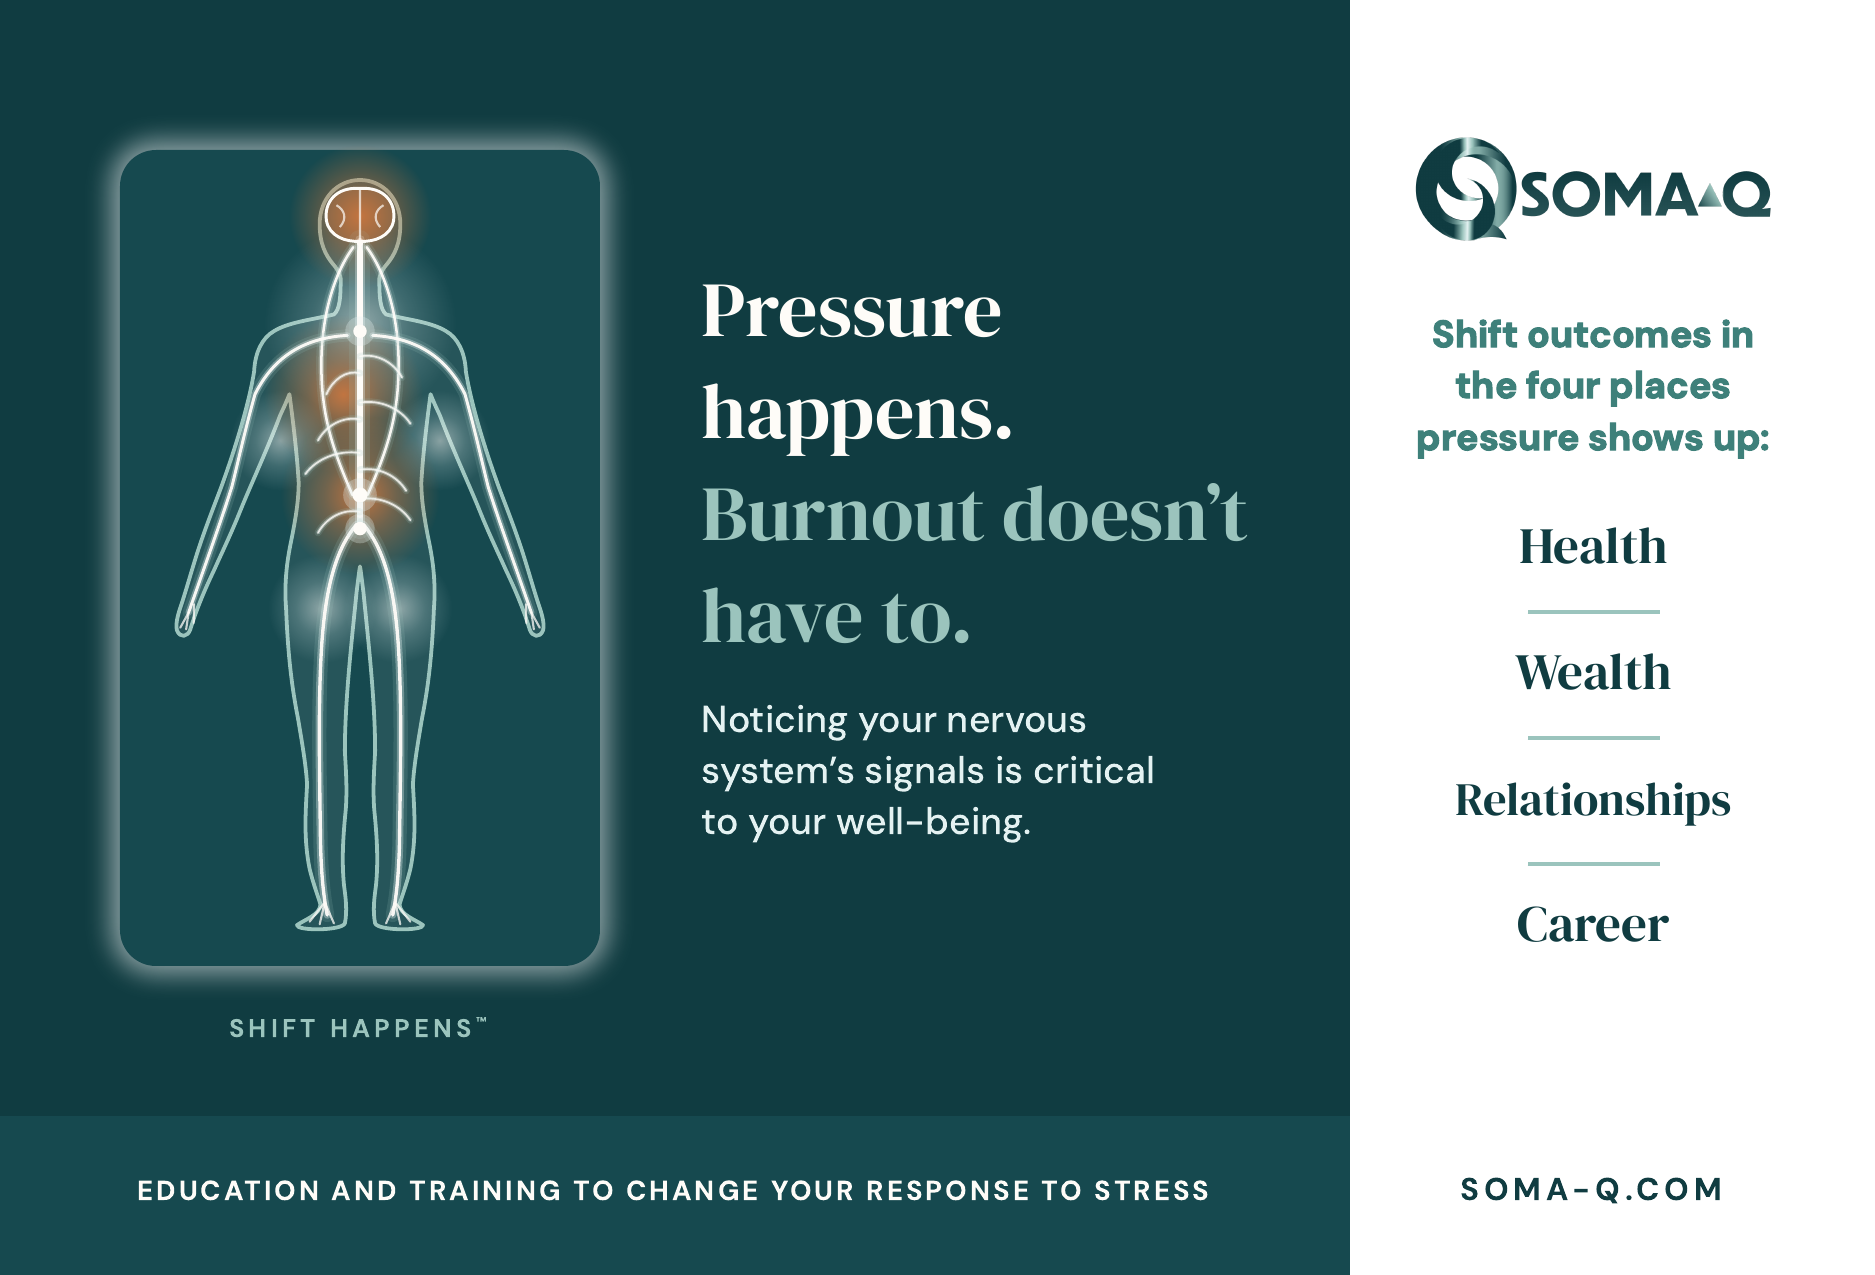
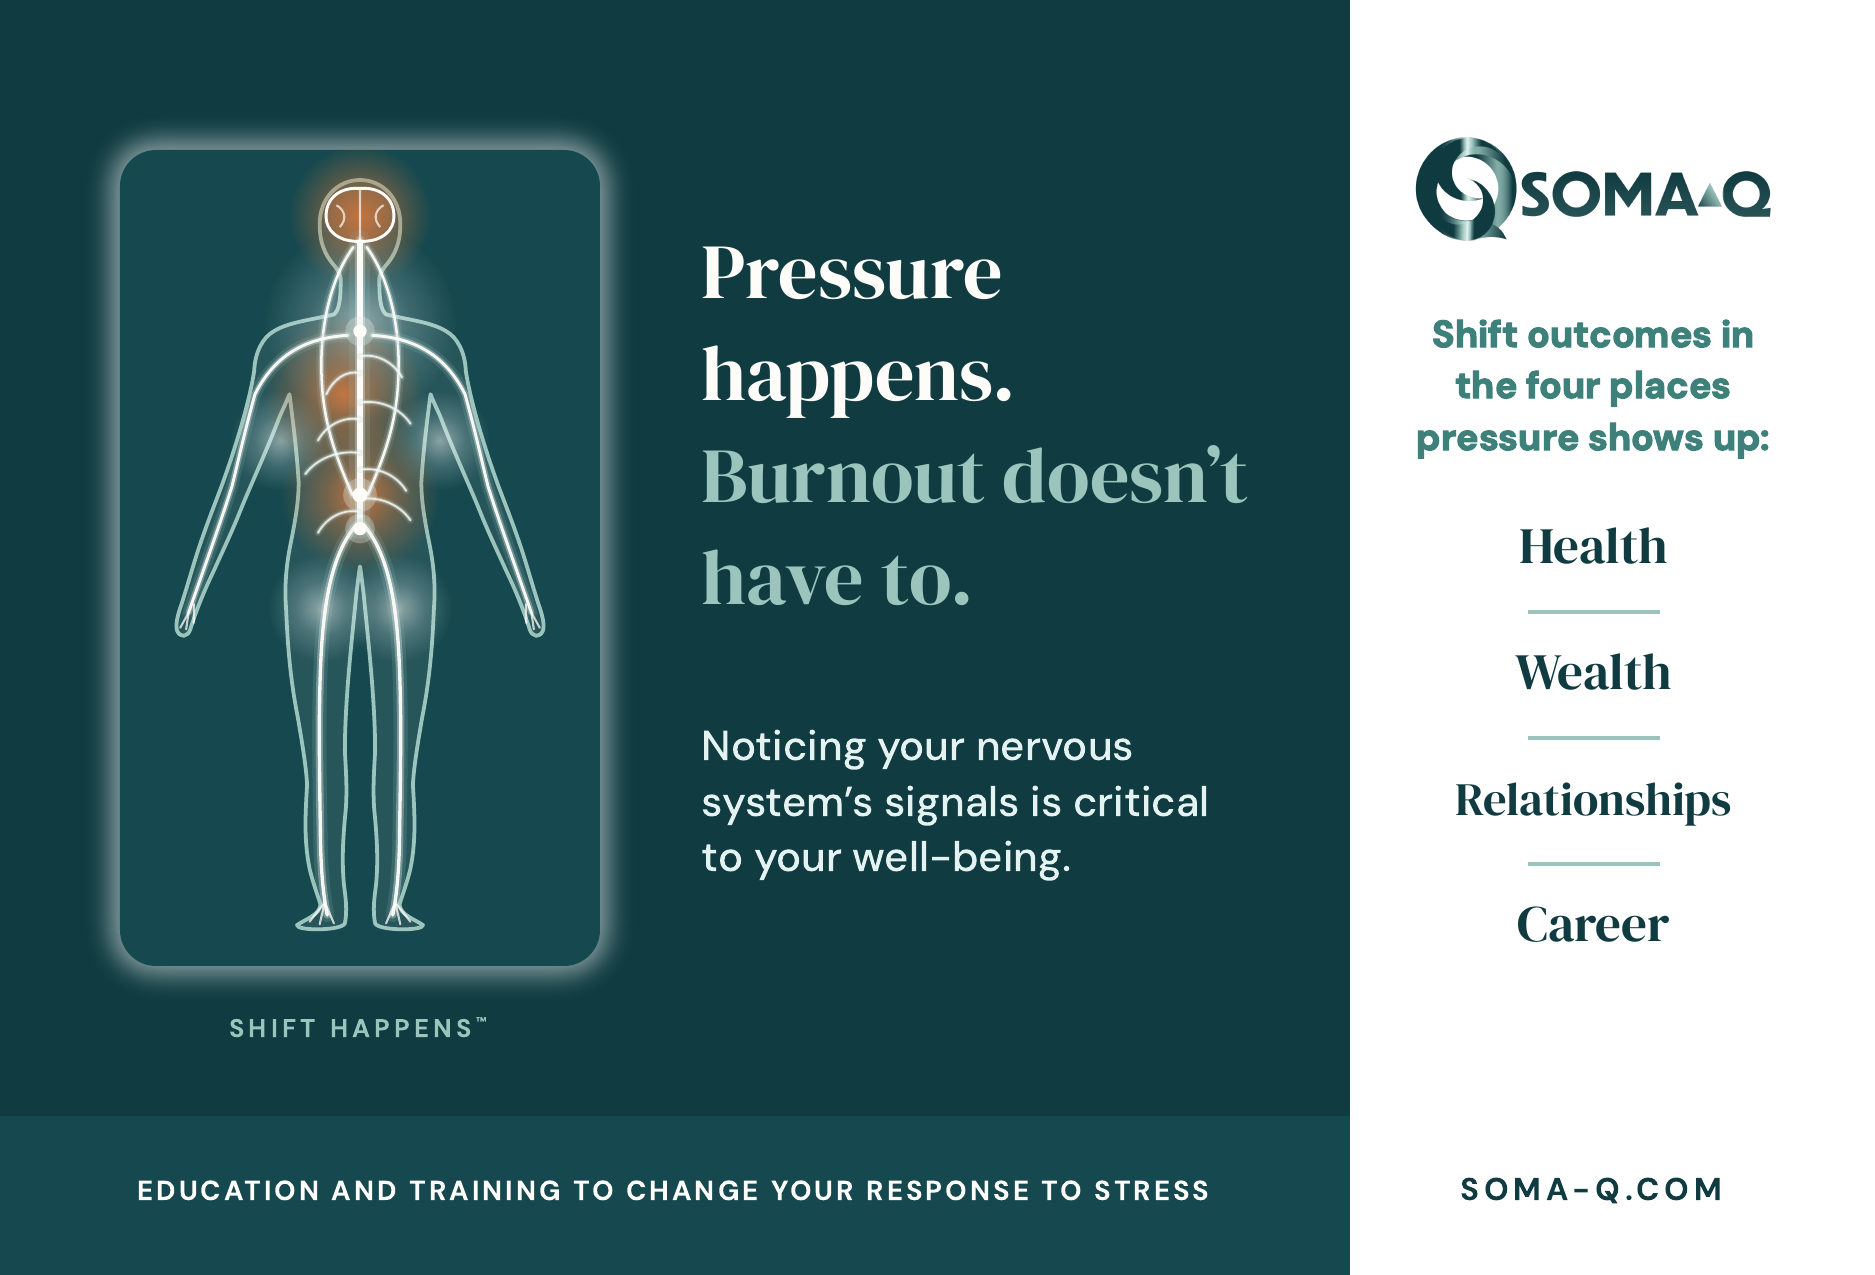
Postcard front L: larger Noticing line, more space after the burnout phrase
Claude-Session: https://claude.ai/code/session_01TFnPPr6NhRE9njhB9L5dUe

Changed region(s): [[0.3712, 0.1835, 0.6805, 0.52], [0.3712, 0.5506, 0.6496, 0.7035]]

diff --git a/booth-package/src/postcard_front_l.html b/booth-package/src/postcard_front_l.html
@@ -15,9 +15,9 @@ svg.page { display: block; width: 6.25in; height: 4.25in; }
 <defs><filter id="pglow" x="-30%" y="-20%" width="160%" height="140%"><feGaussianBlur stdDeviation="4.5"/></filter></defs><rect x="37.5" y="47.5" width="165" height="277" rx="14" fill="#FFFFFF" fill-opacity=".55" filter="url(#pglow)"/>
 <rect x="40" y="50" width="160" height="272" rx="12" fill="#16494F"/>
 <g transform="translate(58.39999999999999,60) scale(0.14)">{{FIGURE:dark}}</g>
-<text x="234" y="112.10000000000001" text-anchor="start" font-family="DM Serif Display" font-weight="400" font-size="26" fill="#FEFCF8">Pressure</text><text x="234" y="146.10000000000002" text-anchor="start" font-family="DM Serif Display" font-weight="400" font-size="26" fill="#FEFCF8">happens.</text>
-<text x="234" y="180.10000000000002" text-anchor="start" font-family="DM Serif Display" font-weight="400" font-size="26" fill="#9BC4BD">Burnout doesn’t</text><text x="234" y="214.10000000000002" text-anchor="start" font-family="DM Serif Display" font-weight="400" font-size="26" fill="#9BC4BD">have to.</text>
-<text x="234" y="244.10000000000002" text-anchor="start" font-family="DM Sans" font-weight="500" font-size="12.5" fill="#E4F2F2">Noticing your nervous</text><text x="234" y="261.1" text-anchor="start" font-family="DM Sans" font-weight="500" font-size="12.5" fill="#E4F2F2">system’s signals is critical</text><text x="234" y="278.1" text-anchor="start" font-family="DM Sans" font-weight="500" font-size="12.5" fill="#E4F2F2">to your well-being.</text>
+<text x="234" y="99.60000000000001" text-anchor="start" font-family="DM Serif Display" font-weight="400" font-size="26" fill="#FEFCF8">Pressure</text><text x="234" y="133.60000000000002" text-anchor="start" font-family="DM Serif Display" font-weight="400" font-size="26" fill="#FEFCF8">happens.</text>
+<text x="234" y="167.60000000000002" text-anchor="start" font-family="DM Serif Display" font-weight="400" font-size="26" fill="#9BC4BD">Burnout doesn’t</text><text x="234" y="201.60000000000002" text-anchor="start" font-family="DM Serif Display" font-weight="400" font-size="26" fill="#9BC4BD">have to.</text>
+<text x="234" y="253.60000000000002" text-anchor="start" font-family="DM Sans" font-weight="500" font-size="14" fill="#E4F2F2">Noticing your nervous</text><text x="234" y="272.1" text-anchor="start" font-family="DM Sans" font-weight="500" font-size="14" fill="#E4F2F2">system’s signals is critical</text><text x="234" y="290.6" text-anchor="start" font-family="DM Sans" font-weight="500" font-size="14" fill="#E4F2F2">to your well-being.</text>
 <image href="{{LOGO_LIGHT_URI}}" x="468.25" y="40" width="126" height="47" preserveAspectRatio="xMinYMid meet"/>
 <text stroke="#3E807A" stroke-width="0.4" x="531.25" y="116" text-anchor="middle" font-family="DM Sans" font-weight="700" font-size="12.5" fill="#3E807A">Shift outcomes in</text><text stroke="#3E807A" stroke-width="0.4" x="531.25" y="133" text-anchor="middle" font-family="DM Sans" font-weight="700" font-size="12.5" fill="#3E807A">the four places</text><text stroke="#3E807A" stroke-width="0.4" x="531.25" y="150" text-anchor="middle" font-family="DM Sans" font-weight="700" font-size="12.5" fill="#3E807A">pressure shows up:</text>
 <text x="531.25" y="188" text-anchor="middle" font-family="DM Serif Display" font-weight="400" font-size="17" fill="#103C41">Health</text>

diff --git a/booth-package/build/make_postcard.py b/booth-package/build/make_postcard.py
@@ -129,12 +129,13 @@ def front_e(name, title, hl, sub, glow=False, up=0, down=0, core=False, sup=None
         # the core message: Pressure happens. Burnout doesn't have to. Then the website's three beats.
         size, lead = 26, 34
         sup = sup or ["Notice the signal. Locate it.", "Choose your next response."]
-        sl = 17 if len(sup) > 2 else 16
-        block = 0.7 * size + 3 * lead + 30 + (len(sup) - 1) * sl
+        sl = 18.5 if len(sup) > 2 else 16
+        gap = 52 if len(sup) > 2 else 30
+        block = 0.7 * size + 3 * lead + gap + (len(sup) - 1) * sl
         b0 = 186 - block / 2 + 0.7 * size
         p += lines(tx, b0, ["Pressure", "happens."], size, lead, WHITE, family="DM Serif Display")
         p += lines(tx, b0 + 2 * lead, ["Burnout doesn\u2019t", "have to."], size, lead, LIGHT, family="DM Serif Display")
-        p += lines(tx, b0 + 3 * lead + 30, sup, 12.5 if len(sup) > 2 else 11.5, sl, PALE, weight="500")
+        p += lines(tx, b0 + 3 * lead + gap, sup, 14 if len(sup) > 2 else 11.5, sl, PALE, weight="500")
     else:
         # text column centred on the image panel (y 50 to 322), clear of its top and bottom edges
         hl_lead = 27
